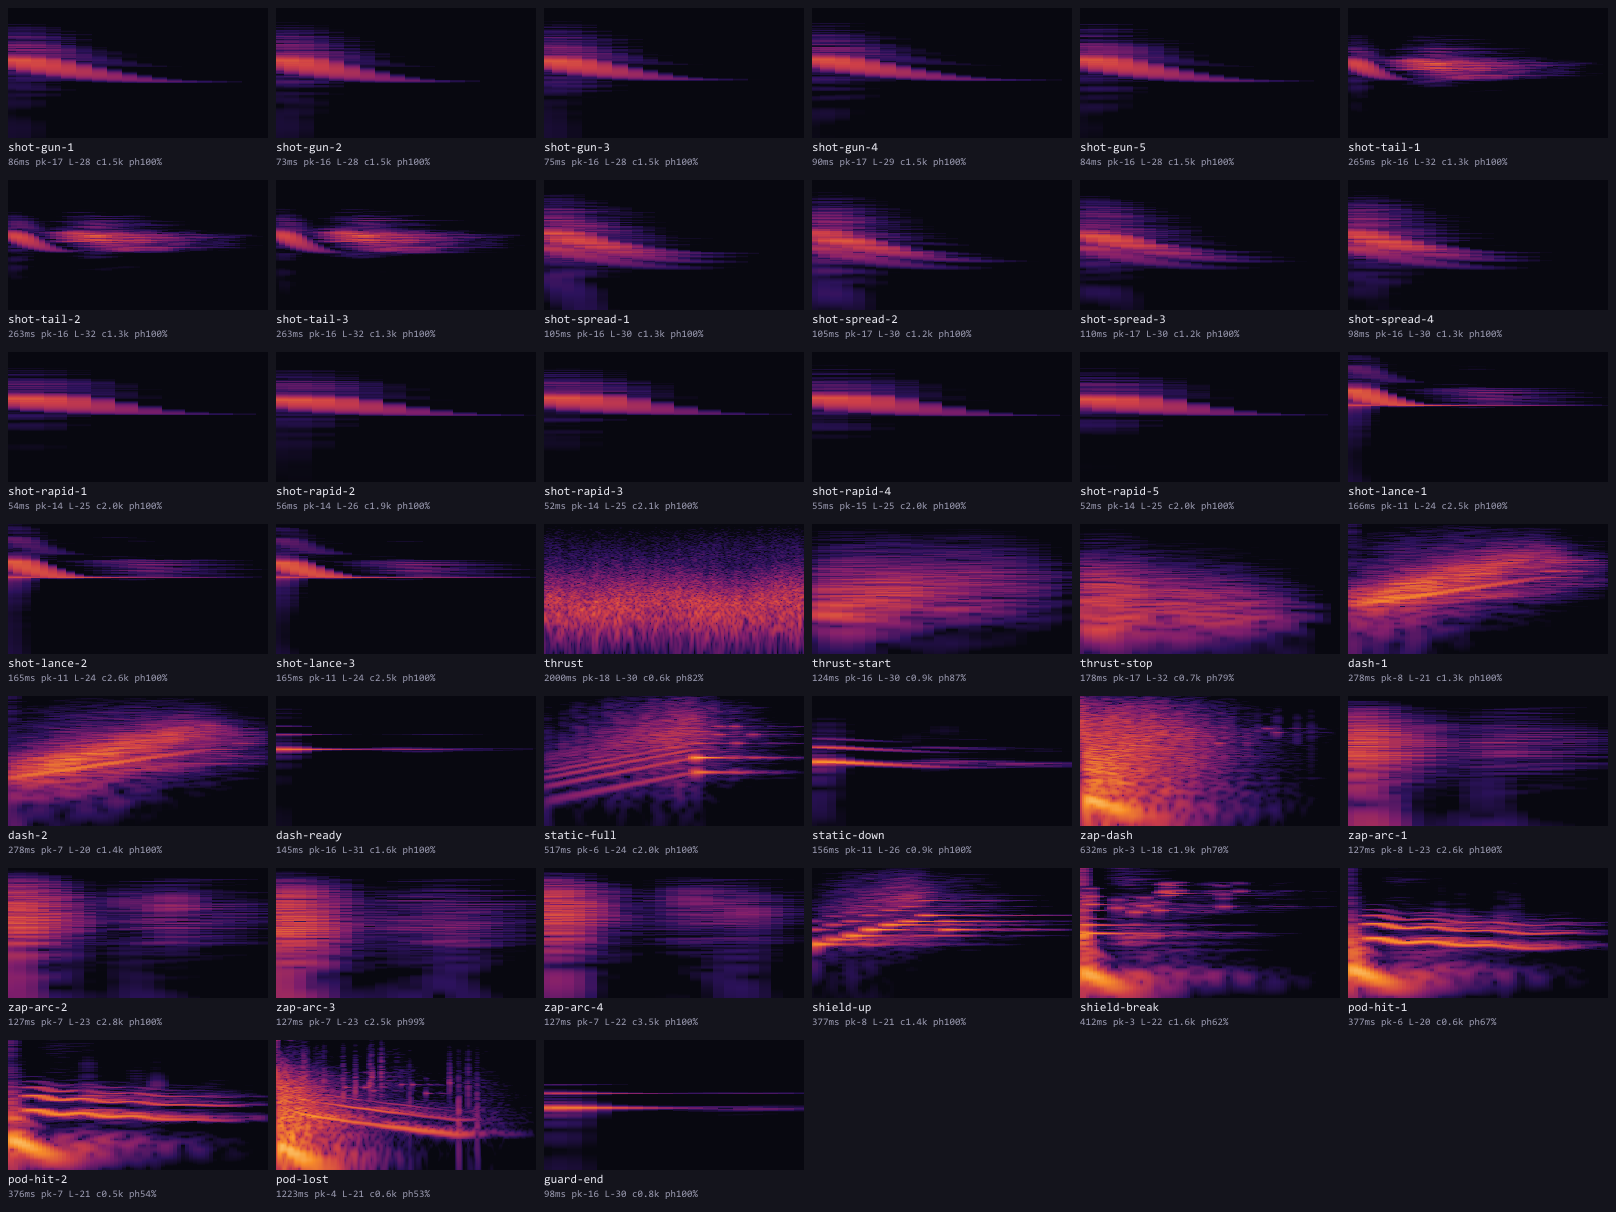
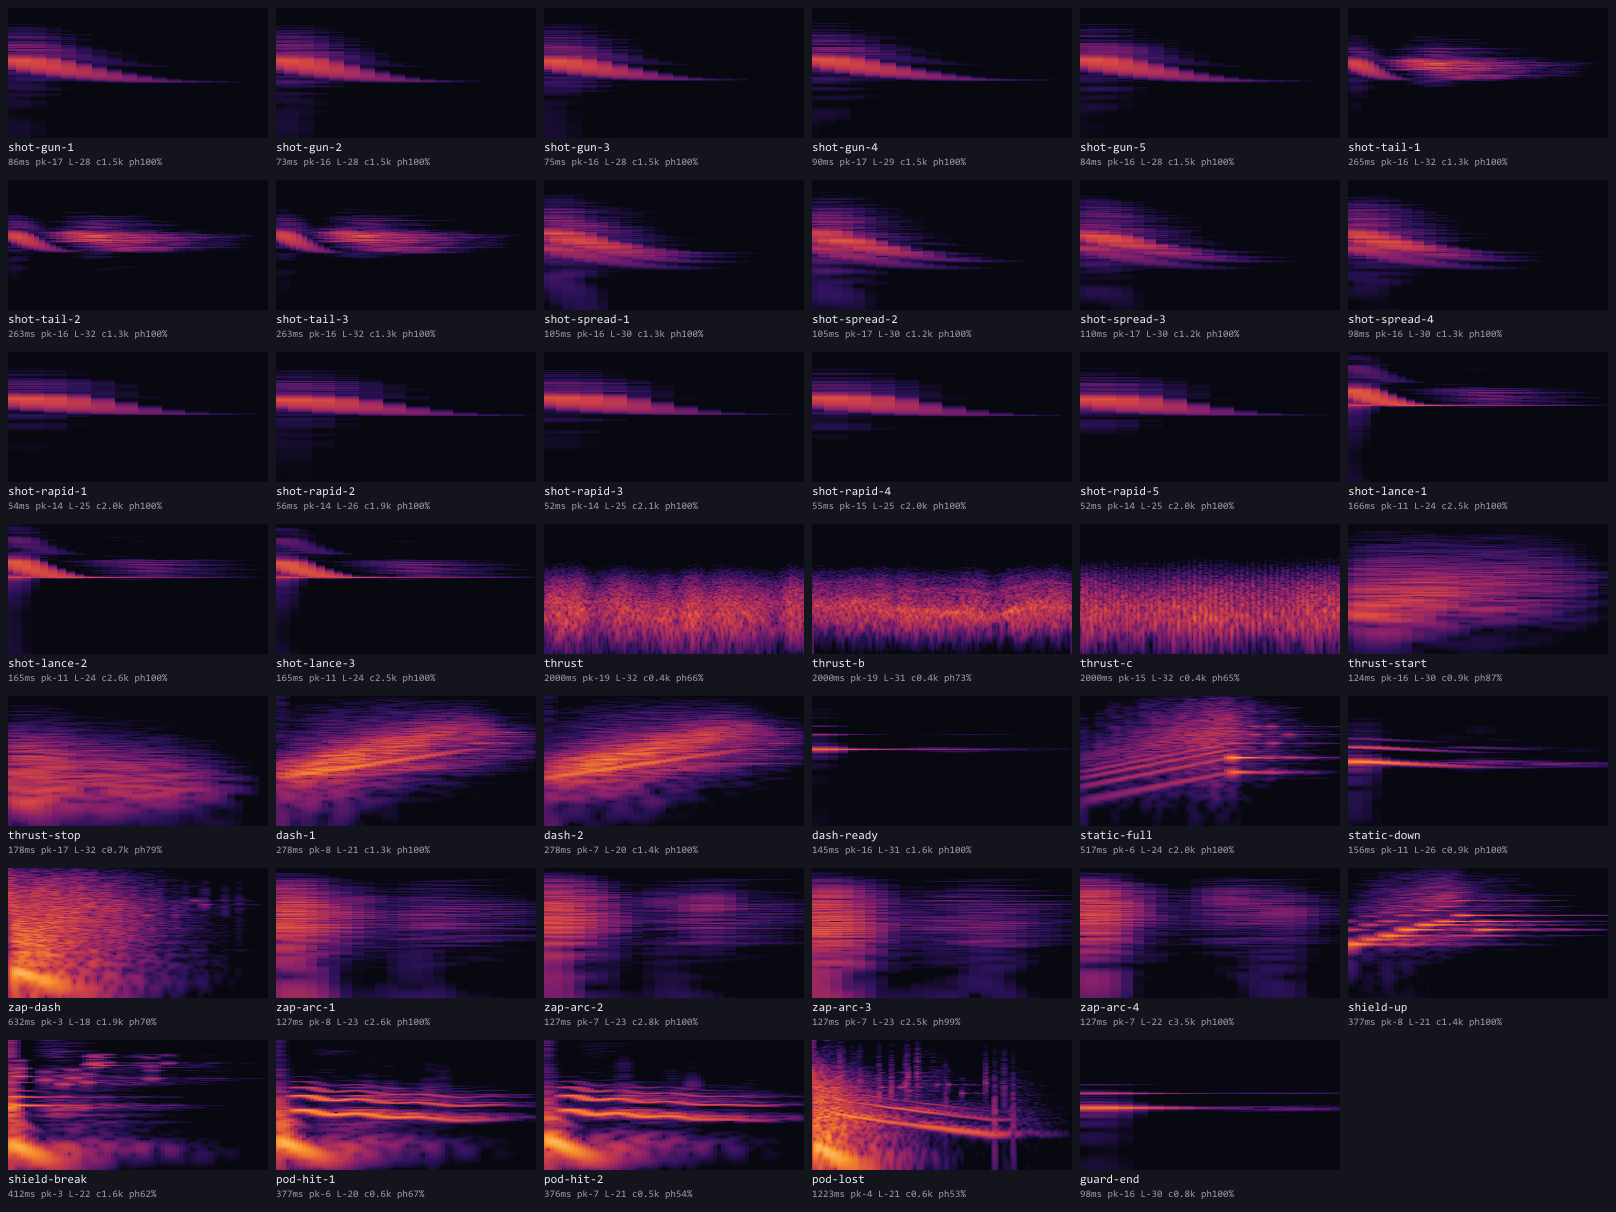
docs(asteroid-breaker-uplift): the thrust made again as a burner, with a throat and a purr beside it to choose from, and a moment on the audition page that plays the three

Changed region(s): [[0.0, 0.4274, 1.0, 1.0]]

diff --git a/docs/asteroid-breaker-uplift/sound/audition/audition.js b/docs/asteroid-breaker-uplift/sound/audition/audition.js
@@ -485,6 +485,17 @@ const SCENES = [
     ],
   },
   {
+    id: "engines",
+    title: "The engine, three ways",
+    about: "The thrust held for two and a half seconds, three times over, each with the same start and stop: first the burner (thrust), then the throat (thrust-b), then the purr (thrust-c). One of the three is to be kept.",
+    old: [{ t: 0, s: "thrust", loopFor: 2.5 }],
+    new: ["thrust", "thrust-b", "thrust-c"].flatMap((s, i) => [
+      { t: i * 3.6, s: "thrust-start" },
+      { t: i * 3.6, s, loopFor: 2.5 },
+      { t: i * 3.6 + 2.5, s: "thrust-stop" },
+    ]),
+  },
+  {
     id: "end",
     title: "The run ends, and a new best",
     about: "The pod is lost with no one in tow, and everyone floats home. Then what a new best would add.",

diff --git a/docs/asteroid-breaker-uplift/sound/listen-for.md b/docs/asteroid-breaker-uplift/sound/listen-for.md
@@ -84,8 +84,23 @@ What was done about each is under "Beds" and "Ship" below.
   `pod-lost` first kept 23 to 30% above 300 Hz and now keep 53 to 70%;
   `zap-arc` was a click with no body and now has a buzz under it; the
   thrust's start and stop lost the lows a phone would never play.
-- **The thrust** loops at exactly two seconds with no pitched tone in it,
-  so it can't drone on a note; its seam reads 0.005.
+- **The thrust, made again after the ear said it needs work,** with two
+  others beside it to choose from. All three loop at exactly two seconds,
+  have no oscillator and no line of pitch, keep under half a percent of
+  their energy above 2 kHz, and sit darker than the start and the stop,
+  which passed and are unchanged.
+  - `thrust`, the burner: no hiss at all now. A driven band of dark noise
+    wandering 260 to 540 Hz under a soft rush, the whole of it swelling and
+    dulling together on a slow breath. If it sputters, shallow the breath.
+  - `thrust-b`, the throat: the same burn through a comb whose pitch
+    wanders 225 to 515 Hz, like a stopped pipe that never settles. The
+    likeliest of the three to be heard as a sweep that repeats.
+  - `thrust-c`, the purr: a warm band of noise opening in soft pulses,
+    about 27 a second, drifting, each a little different. Its maker's pick:
+    it suits the pilot and can't be mistaken for debris. If it sounds like
+    a small motor, raise its floor or slow it to 23.
+  - The audition page has them as one moment, "The engine, three ways".
+    The two not chosen come out of `recipes/ship.mjs`.
 
 ## Pickups
 

diff --git a/docs/asteroid-breaker-uplift/sound/report/ship.md b/docs/asteroid-breaker-uplift/sound/report/ship.md
@@ -22,7 +22,9 @@
 | `shot-lance-1` | 166 | -10.6 | -21.0 | -23.7 | 10.4 | 2479 | 0/0/27/73/0 | 100 |
 | `shot-lance-2` | 165 | -10.6 | -21.0 | -23.6 | 10.4 | 2597 | 0/0/23/77/0 | 100 |
 | `shot-lance-3` | 165 | -10.8 | -21.0 | -23.6 | 10.2 | 2505 | 0/0/23/76/0 | 100 |
-| `thrust` | 2000 | -17.7 | -27.0 | -29.9 | 9.3 | 604 | 1/17/80/2/0 | 82 |
+| `thrust` | 2000 | -19.5 | -27.0 | -31.5 | 7.5 | 420 | 1/33/65/0/0 | 66 |
+| `thrust-b` | 2000 | -18.5 | -27.0 | -31.4 | 8.5 | 401 | 0/27/73/0/0 | 73 |
+| `thrust-c` | 2000 | -14.7 | -27.0 | -32.0 | 12.3 | 440 | 1/33/65/0/0 | 65 |
 | `thrust-start` | 124 | -15.6 | -27.0 | -30.3 | 11.4 | 940 | 0/12/80/7/0 | 87 |
 | `thrust-stop` | 178 | -17.5 | -27.0 | -31.8 | 9.5 | 737 | 2/20/75/3/0 | 79 |
 | `dash-1` | 278 | -8.1 | -17.0 | -20.6 | 8.9 | 1328 | 0/0/81/19/0 | 100 |

diff --git a/docs/asteroid-breaker-uplift/sound/README.md b/docs/asteroid-breaker-uplift/sound/README.md
@@ -140,7 +140,8 @@ that many takes. The plan says which event plays each.
   `burr-cling` (3), `burr-shed` (2), `burr-pop` (3); `lodestone-hum`
   (a loop); `near-miss` (3).
 - **`ship`:** `shot-gun` (5), `shot-spread` (4), `shot-rapid` (5),
-  `shot-lance` (3), `shot-tail` (3); `thrust` (a loop), `thrust-start`, `thrust-stop`;
+  `shot-lance` (3), `shot-tail` (3); `thrust` (a loop, with `thrust-b` and
+  `thrust-c` beside it until one of the three is chosen), `thrust-start`, `thrust-stop`;
   `dash` (2), `dash-ready`; `static-full`, `static-down`, `zap-dash`,
   `zap-arc` (4); `shield-up`, `shield-break`; `pod-hit` (2), `pod-lost`,
   `guard-end`.
